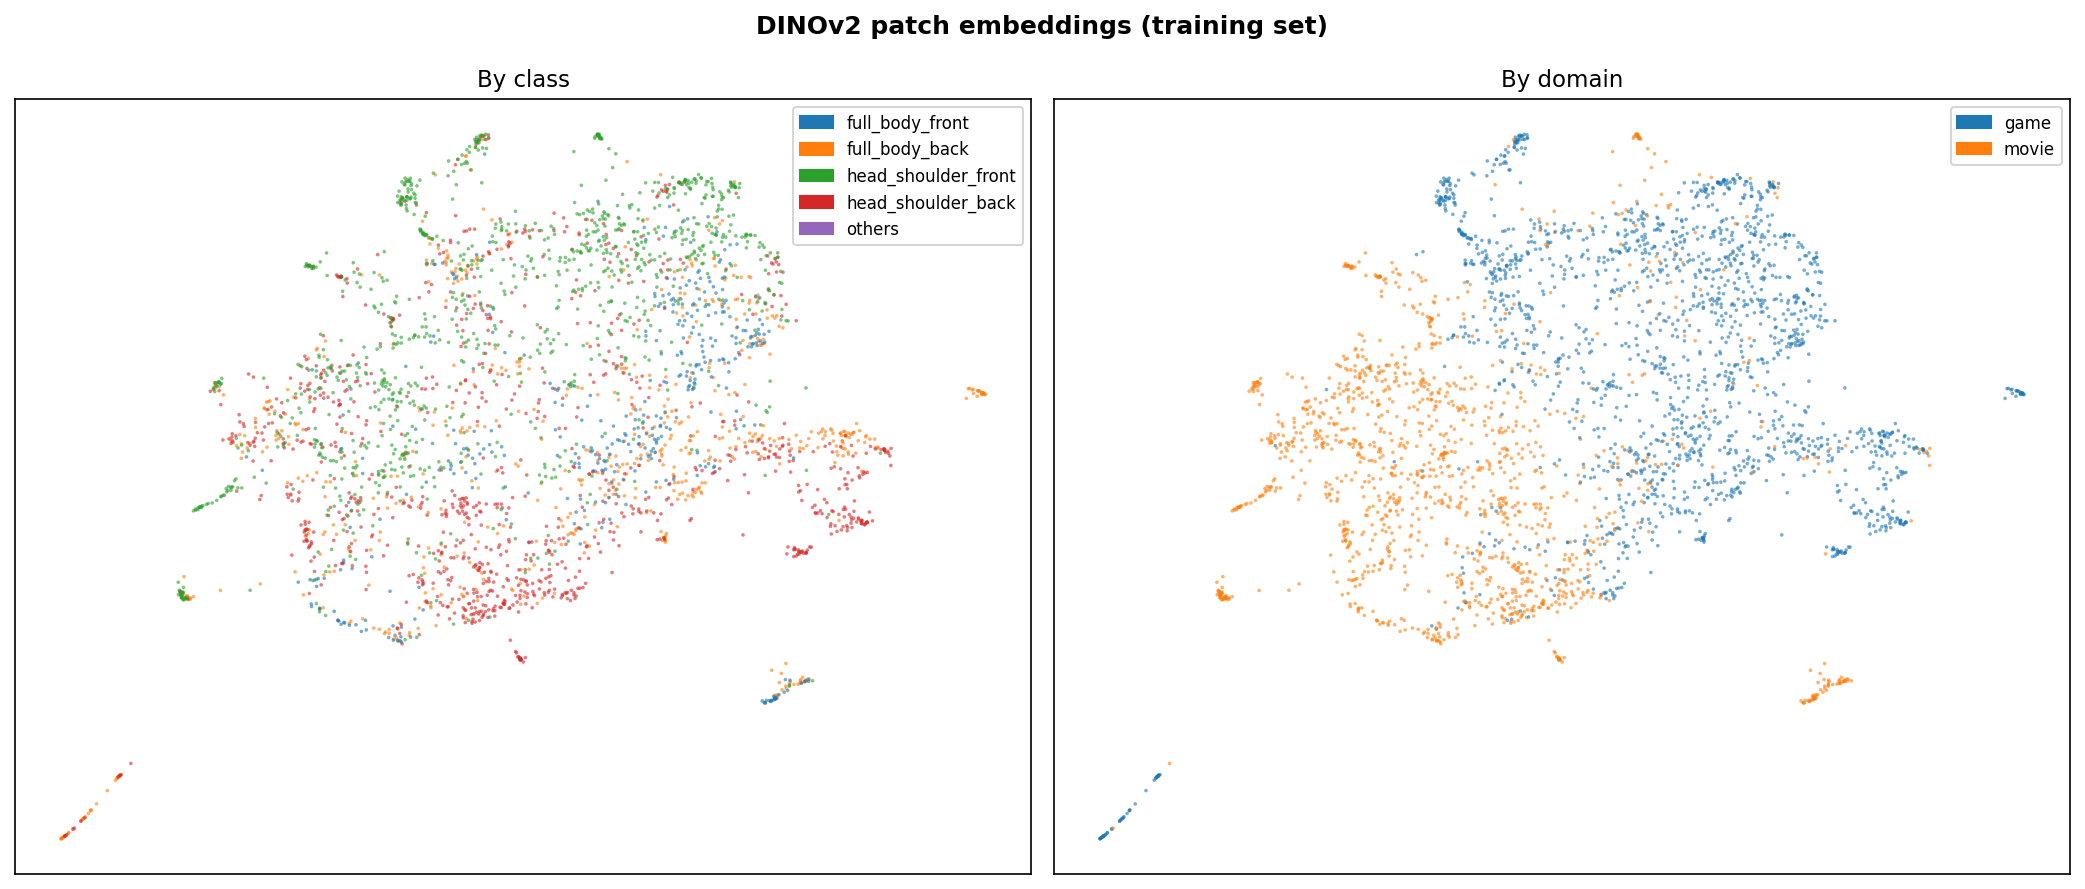
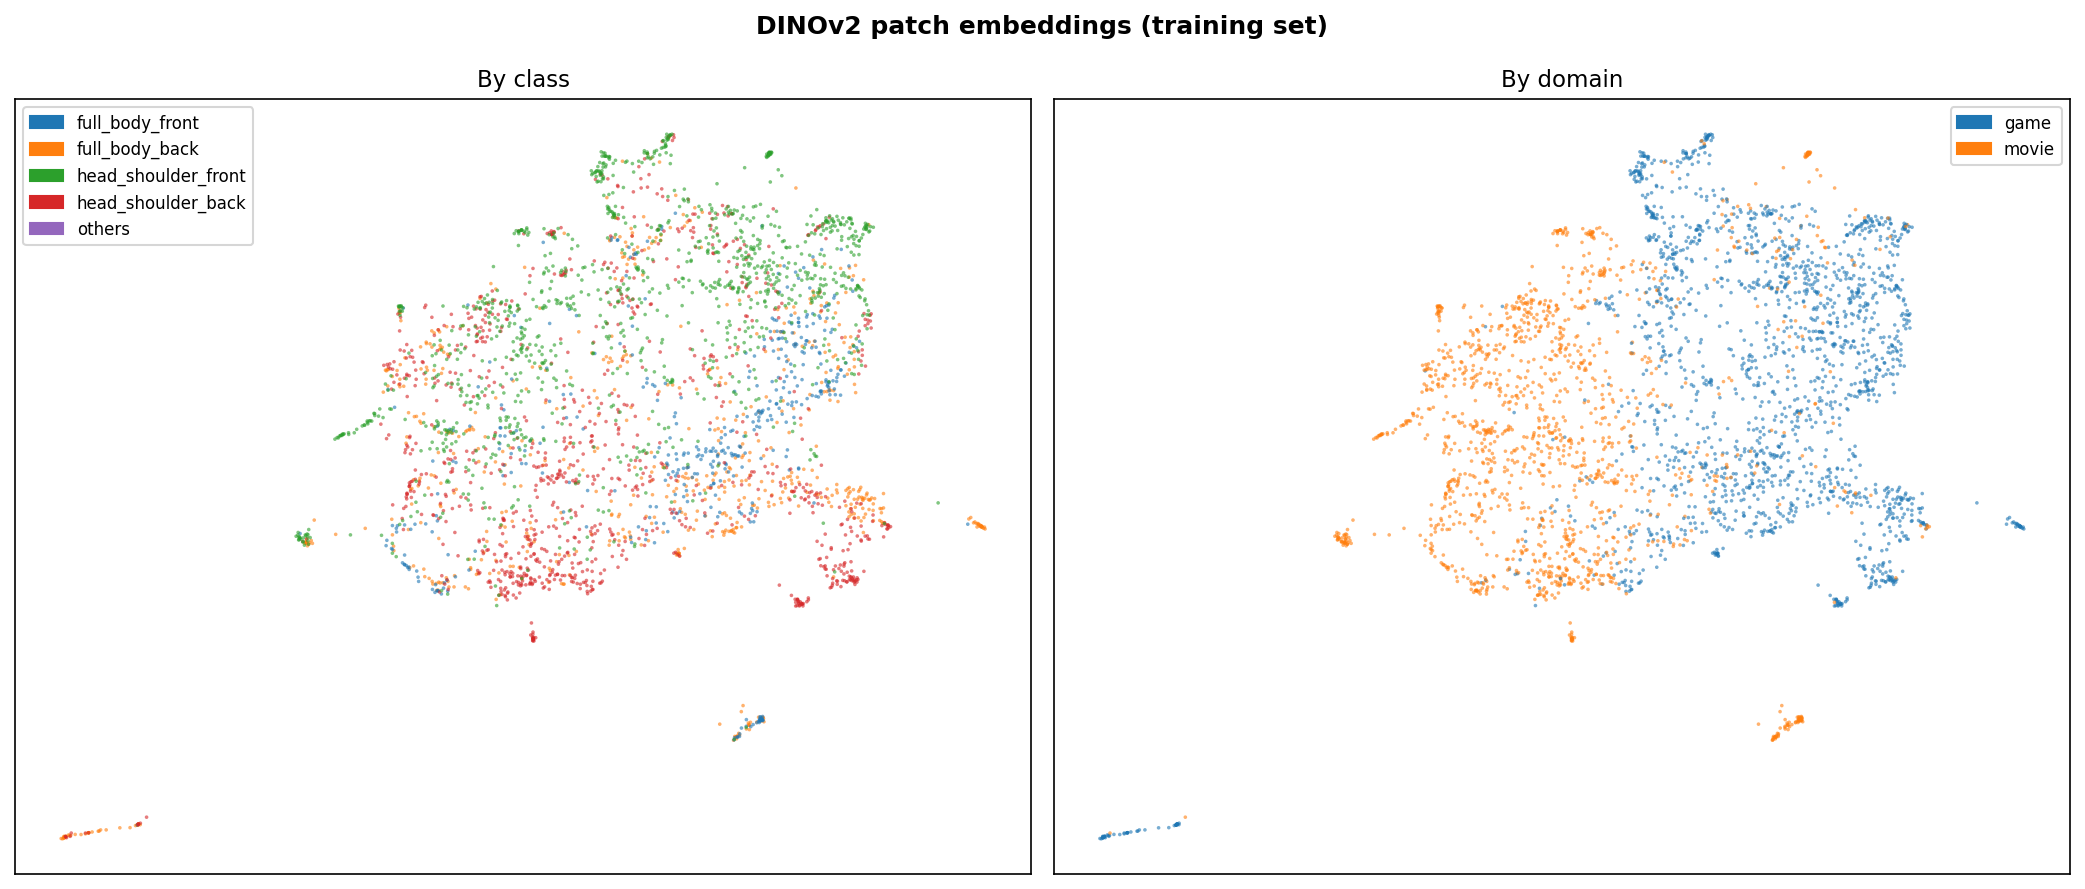
update train split 1.3

diff --git a/nb_main.py b/nb_main.py
@@ -130,14 +130,14 @@ RELOAD_GCN = "20260325-095859_ablation_manual"
 
 # -- 1.3 --
 RELOAD_TRAIN_SELECT = None
-RELOAD_TRAIN_SELECT = "20260324-195936"
+RELOAD_TRAIN_SELECT = "20260325-103914"
 
 # -- 2.1 --
 RUN_FINETUNE_21 = False
 RUN_TRANSLATE_VIDEO_21 = True
 
 # -- 2.2 --
-RUN_FINETUNE_22 = True
+RUN_FINETUNE_22 = False
 RUN_TRANSLATE_VIDEO_22 = True
 
 # Effective reload controls (RUN_FULL_PIPELINE overrides per-stage reload flags)
